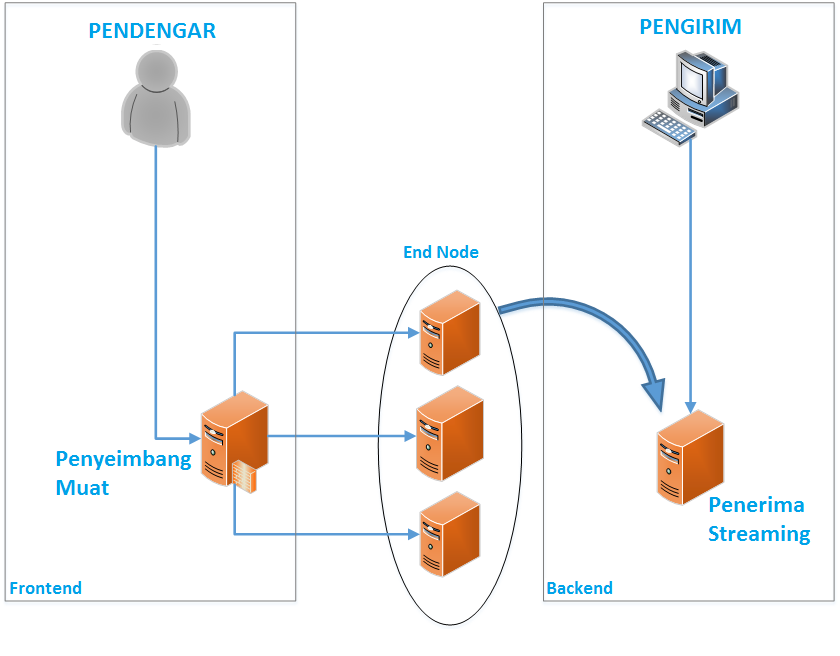
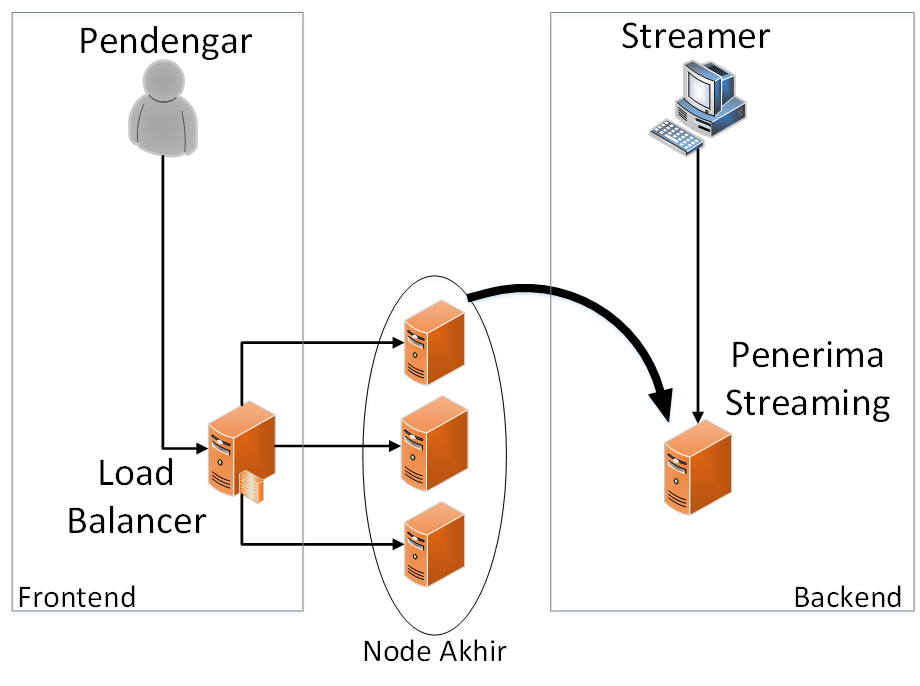
edit terakhir

Changed region(s): [[0.0, 0.0, 1.0, 0.9756], [0.619, 0.6402, 0.65, 0.7317], [0.1238, 0.1524, 0.1548, 0.2134]]

diff --git a/laporan/pengujian.tex b/laporan/pengujian.tex
@@ -33,7 +33,7 @@ Akses dilakukan melalui tiga komputer penguji beban dengan jumlah klien yang dis
 
 \section{Hasil Uji Coba}
 
-Hasil ujicoba direpresentasikan oleh Tabel \ref{tab:haproxy} dan Tabel \ref{tab:nohaproxy}.
+Hasil ujicoba direpresentasikan oleh Tabel \ref{tab:nohaproxy} dan Tabel \ref{tab:haproxy}.
 % Diakses langsung
 \begin{table}[h]
 	\centering
@@ -76,4 +76,6 @@ Hasil ujicoba direpresentasikan oleh Tabel \ref{tab:haproxy} dan Tabel \ref{tab:
 	Pada ujicoba dengan jumlah 450 pengakses, didapatkan tingkat keberhasilan dan kegagalan yang berbeda antara akses tanpa load balancer dan akses melalui load balancer. Akses tanpa load balancer memberikan tingkat keberhasilan 76,8\% dan tingkat kegagalan 23.2\% dengan 450 pengakses. Bandingkan dengan akses melalui HAProxy yang memberikan tingkat keberhasilan 96,4\% dan tingkat kegagalan 3,6\% dengan jumlah pengakses yang sama.
 	
 	Pengujian dengan 600 pengakses juga memberikan tingkatan yang berbeda. Tingkat keberhasilan akses tanpa load balancer sebesar 40,5\% dan tingkat kegagalannya sebesar 59,5\%. Sementara itu tingkat keberhasilan akses melalui load balancer sebesar 80,8\% dan tingkat kegagalannya sebesar 19,2\%.
+	
+	Hasil ini didapatkan dari penggunaan 3 server virtual sebagai Node akhir. Jika ditambahkan jumlah Node akhir yang bekerja, bisa jadi tingkat keberhasilannya akan berubah dengan jumlah pengakses yang sama dengan pengujian di atas. Belum diketahui juga hasil ketika server yang digunakan adalah komputer fisik dengan \textit{processor} dengan inti lebih banyak dan kecepetan lebih baik.
 

diff --git a/laporan/metode_penelitian.tex b/laporan/metode_penelitian.tex
@@ -8,7 +8,7 @@ Pada bagian Frontend, pendengar akan berhadapan dengan server penyeimbang muat b
 
 \begin{figure}
     \centering
-    \includegraphics[width=0.5\linewidth]{arsitektur}
+    \includegraphics[width=1\linewidth]{arsitektur}
     \caption{Arsitektur Jaringan}
     \label{fig:arsitektur}
 \end{figure}
@@ -24,9 +24,9 @@ Pada Gambar \ref{fig:kirim-server} diagram alir menjelaskan bagaimana pengirim m
 
 Gambar \ref{fig:kirim-server} menjelaskan apa yang terjadi di bagian backend aplikasi.
 
-\begin{figure}
+\begin{figure}[h]
     \centering
-    \includegraphics[width=0.7\linewidth]{kirim-server}
+    \includegraphics[width=1\linewidth]{kirim-server}
     \caption{Alur Kerja Pengirim dan Server}
     \label{fig:kirim-server}
 \end{figure}
@@ -35,9 +35,9 @@ Gambar \ref{fig:kirim-server} menjelaskan apa yang terjadi di bagian backend apl
 \subsection{Penyeimbang Muat}
 Penyeimbang muat diakses ketika ada pendengar atau pengakses yang ingin mengakses siaran yang tersedia pada Server. Pada kenyataannya pendengar hanya akan mengakses satu alamat server yang akan memintakan layanan ke Node akhir. Server yang diakses oleh pendengar tidak memiliki layanan yang diminta oleh pendengar, server hanya bertindak sebagai penerus dan penyeimbang muat bagi permintaan yang banyak.
 
-\begin{figure}
+\begin{figure}[h]
     \centering
-    \includegraphics[width=0.7\linewidth]{dengar-server}
+    \includegraphics[width=1\linewidth]{dengar-server}
     \caption{Alur Kerja Pendengar dan Server}
     \label{fig:dengar-server}
 \end{figure}

diff --git a/laporan/penutup.tex b/laporan/penutup.tex
@@ -1,7 +1,7 @@
 \chapter{Kesimpulan dan Saran}
 
 \section{Simpulan}
-Berikut ini simpulan yang didapatkan setelah melakukan ujicoba dan analisa terhadap penelitian ini :
+Berikut ini simpulan yang didapatkan setelah melakukan uji coba dan analisa terhadap penelitian ini :
 
 \begin{enumerate}
 	\item Untuk menyeimbangkan muatan kerja server yang menyiarkan audio ke pendengar, digunakan sebuah server load balancer dengan menggunakan HAProxy yang menyediakan akses yang sama dengan kerja server yang ada di belakang load balancer tersebut. Kerja load balancer hanya akan meneruskan setiap permintaan dan balasan dari dan ke server penyiar audio. HAProxy akan memilih server mana yang akan menerima permintaan dari pendengar sesuai dengan algoritma pemilihan yang sudah diimplementasikan sebelumnya.
@@ -12,5 +12,12 @@ Berikut ini simpulan yang didapatkan setelah melakukan ujicoba dan analisa terha
 
 
 \section{Saran}
+
+Dalam penelitian didapatkan tingkat keberhasilan di atas 80\% dengan 600 permintaan akses, padahal hanya digunakan 3 Node akhir dengan masing-masing Node berada di dalam virtualisasi saja. Virtualisasi server sendiri sebenarnya tidak dapat memberikan hasil yang maksimal seperti penggunaan komputer fisik. Ada beberapa kesempatan pengembangan terhadap penelitian ini diantaranya :
+
+\begin{enumerate}
+	\item Penggunaan Node akhir yang lebih banyak dibandingkan penelitian ini.
+	\item Penggunaan komputer fisik, bukan menggunakan komputer virtual.
+\end{enumerate}
 
 

diff --git a/laporan/tinjauan_pustaka.tex b/laporan/tinjauan_pustaka.tex
@@ -53,3 +53,5 @@ Beberapa pengembangan terhadap terknologi di atas antara lain:
     
     Pengembangnya jelas menyebutkan bahwa mereka adalah penggemar HAProxy yang telah berhasil me-\textit{load balancing}-kan 2 hingga 3 komputer server yang dimilikinya. \cite{hause}
 \end{enumerate}
+
+Kedua sistem ini menggunakan teknologi HAProxy untuk membagi beban kerja servernya. Tidak ada hubungan yang berarti dengan penelitian ini, terlebih tidak ada data audio yang dimaksudkan dalam sistem di atas. Namun keberhasilan HAProxy dalam menyeimbangkan muatan kerja server sistem di atas, akan diimplementasikan dalam penelitian ini.

diff --git a/laporan/paper.tex b/laporan/paper.tex
@@ -37,7 +37,7 @@
 
 
 	
-\input{pendahuluan}
+\input{pendahuluan-paper}
 \input{tinjauan_pustaka}
 \input{metode_penelitian}
 \input{implementasi}
